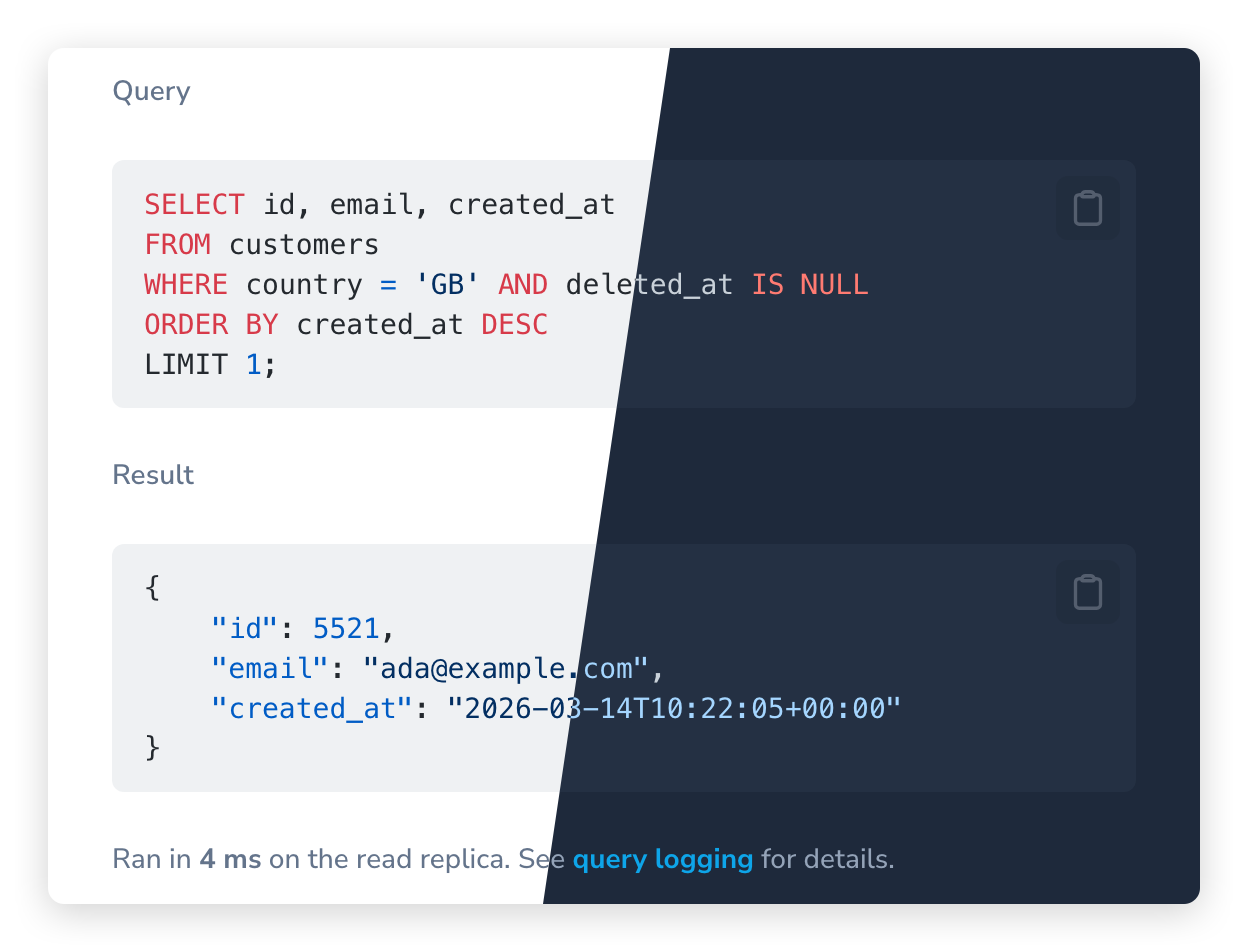
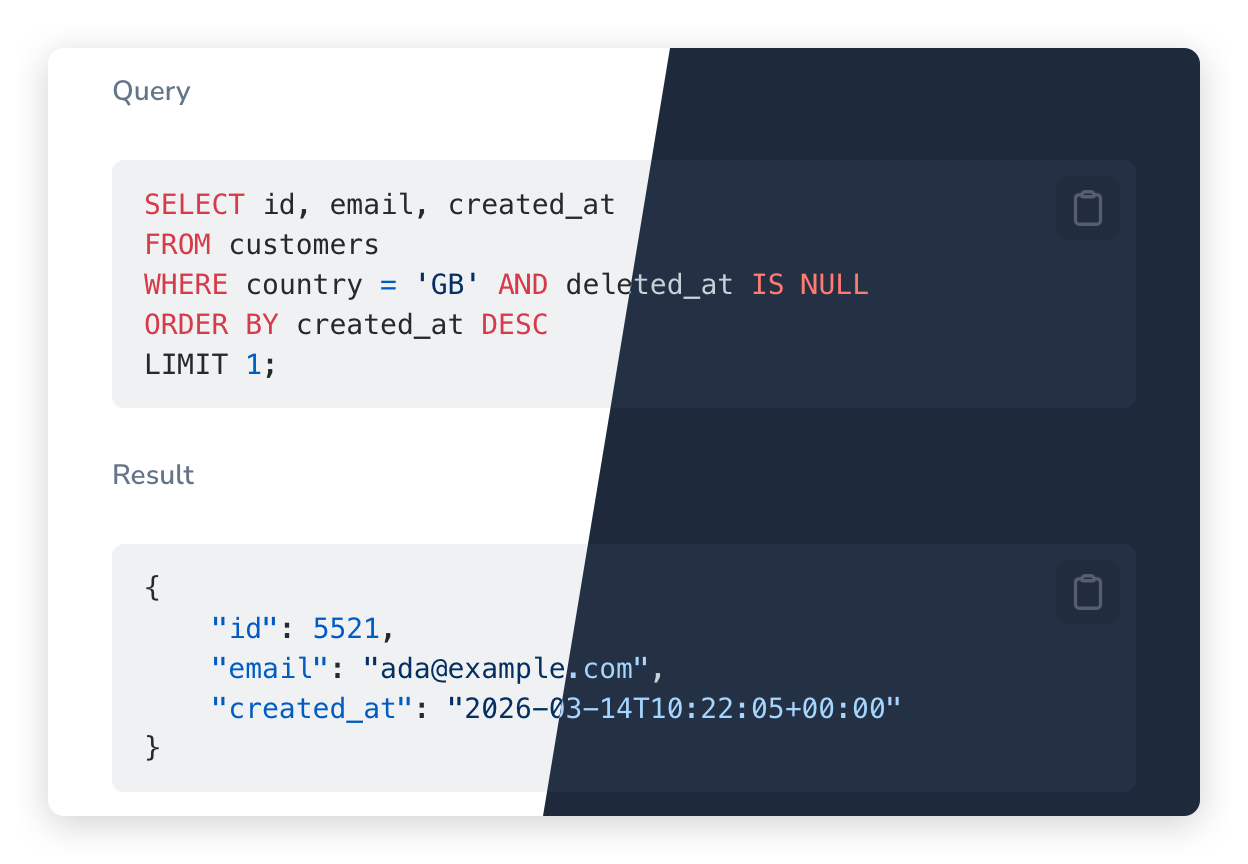
Group README blocks by category with an index and code-then-screenshot order
References #96

diff --git a/workbench/app/Nova/Actions/ScreenshotAction.php b/workbench/app/Nova/Actions/ScreenshotAction.php
@@ -116,7 +116,6 @@ class ScreenshotAction extends Action
                 'email' => 'ada@example.com',
                 'created_at' => '2026-03-14T10:22:05+00:00',
             ]),
-            Block::markdown('Ran in **4 ms** on the read replica. See [query logging](https://example.com/docs/queries) for details.'),
         ])->title('Query preview')->size('xl');
     }
 

diff --git a/README.md b/README.md
@@ -97,9 +97,38 @@ return ModalResponse::stack([
 
 All blocks are built through the `Markwalet\NovaModalResponse\Block` factory.
 
-<p align="center"><img src="art/blocks-text.png" alt="Heading, text, divider and list blocks" width="600"></p>
+| Category                                      | Blocks                                                                    |
+| --------------------------------------------- | ------------------------------------------------------------------------- |
+| [Text content](#text-content)                 | [text](#text) · [heading](#heading) · [list](#list) · [divider](#divider) |
+| [Code and data](#code-and-data)               | [code](#code) · [json](#json)                                             |
+| [Inline elements](#inline-elements)           | [badge](#badge) · [icon](#icon) · [link](#link) · [inline](#inline)       |
+| [Collapsible and tabs](#collapsible-and-tabs) | [collapsible](#collapsible) · [tabs](#tabs)                               |
+| [Raw HTML](#raw-html)                         | [html](#html) · [markdown](#markdown) · [view](#view)                     |
 
-#### Text
+#### Text content
+
+```php
+ModalResponse::stack([
+    Block::heading('Import finished')->large(),
+    Block::text('Processed 1,204 rows from customers.csv. Three rows were skipped and need a manual fix.'),
+    Block::divider(),
+    Block::heading('Skipped rows')->small(),
+    Block::list([
+        'Row 18: missing email address',
+        'Row 211: duplicate customer number',
+        'Row 940: unknown country code "UK"',
+    ]),
+    Block::heading('Next steps')->small(),
+    Block::list([
+        'Correct the rows in the source file',
+        'Re-run the import with "Only failed rows"',
+    ])->ordered(),
+]);
+```
+
+<p align="center"><img src="art/blocks-text.png" alt="A large heading, a paragraph, a divider, small headings, a bulleted list and a numbered list" width="600"></p>
+
+##### Text
 
 A single paragraph of escaped text. Whitespace and newlines are not preserved; use `code` or `list` for multi-line output.
 
@@ -107,7 +136,7 @@ A single paragraph of escaped text. Whitespace and newlines are not preserved; u
 Block::text('The export finished successfully.');
 ```
 
-#### Heading
+##### Heading
 
 A heading inside the body (separate from the modal title). Sizes: `small()`, `medium()` (default), `large()`.
 
@@ -115,7 +144,7 @@ A heading inside the body (separate from the modal title). Sizes: `small()`, `me
 Block::heading('Summary')->large();
 ```
 
-#### List
+##### List
 
 A list of escaped strings. Unordered by default; call `ordered()` for a numbered list.
 
@@ -124,7 +153,7 @@ Block::list(['apples', 'oranges', 'pears']);
 Block::list(['Back up', 'Migrate', 'Verify'])->ordered();
 ```
 
-#### Divider
+##### Divider
 
 A horizontal rule between blocks.
 
@@ -132,9 +161,20 @@ A horizontal rule between blocks.
 Block::divider();
 ```
 
-<p align="center"><img src="art/blocks-code.png" alt="A SQL code block, a JSON block and a markdown block" width="600"></p>
+#### Code and data
 
-#### Code
+```php
+ModalResponse::stack([
+    Block::heading('Query')->small(),
+    Block::code($sql)->language('sql'),
+    Block::heading('Result')->small(),
+    Block::json($customer),
+]);
+```
+
+<p align="center"><img src="art/blocks-code.png" alt="A highlighted SQL query and its JSON result, each with a copy button" width="600"></p>
+
+##### Code
 
 A code snippet with a copy button. highlight.js auto-detects the language unless you set one with `language()`. Call `withoutHighlighting()` to render plain text.
 
@@ -143,7 +183,7 @@ Block::code('SELECT * FROM users;')->language('sql');
 Block::code($log)->withoutHighlighting();
 ```
 
-#### JSON
+##### JSON
 
 Takes an array, pretty-prints it as JSON and highlights it. Has a copy button. Supports `withoutHighlighting()`.
 
@@ -151,34 +191,34 @@ Takes an array, pretty-prints it as JSON and highlights it. Has a copy button. S
 Block::json($user->toArray());
 ```
 
-#### HTML
-
-Renders an HTML string as-is.
+#### Inline elements
 
 ```php
-Block::html('<p>Read the <a href="/docs">docs</a>.</p>');
+ModalResponse::stack([
+    Block::inline([Block::icon('check-circle')->success()->large(), 'Paid with Visa', Block::badge('•••• 4242')]),
+    Block::inline(['Fulfilment', Block::badge('Shipped')->success()->icon('truck')])->spread(),
+    Block::inline(['Priority', Block::badge('High')->warning()])->spread(),
+    Block::inline(['Fraud check', Block::badge('Review')->danger()->icon('exclamation-triangle')])->spread(),
+    Block::divider(),
+    Block::inline([
+        Block::badge('B2B'),
+        Block::badge('Returning')->info(),
+        Block::badge('Verified')->success(),
+        Block::badge('Backorder')->warning(),
+        Block::badge('Chargeback risk')->danger(),
+    ]),
+    Block::divider(),
+    Block::inline([
+        Block::link('Open in Stripe', $stripeUrl)->button()->newTab()->icon('arrow-top-right-on-square', trailing: true),
+        Block::link('Download invoice', $invoiceUrl)->icon('arrow-down-tray'),
+        Block::link('Customer profile', $profileUrl),
+    ]),
+]);
 ```
 
-#### Markdown
+<p align="center"><img src="art/blocks-inline.png" alt="Inline rows with an icon, key/value rows with badges, badges in every variant, and links" width="600"></p>
 
-Compiles GitHub-flavored Markdown to HTML on the server (via Laravel's `Str::markdown()`). Call `file()` to treat the argument as a path to a Markdown file; an unreadable path throws an `InvalidArgumentException`.
-
-```php
-Block::markdown('**Bold** and a [link](https://nova.laravel.com).');
-Block::markdown(resource_path('docs/release-notes.md'))->file();
-```
-
-#### View
-
-Renders a Blade view on the server and shows the result as HTML.
-
-```php
-Block::view('reports.summary', ['report' => $report]);
-```
-
-<p align="center"><img src="art/blocks-inline.png" alt="Inline rows of icons, badges in every variant, and links" width="600"></p>
-
-#### Badge
+##### Badge
 
 A small coloured label. Variants: `default()` (default), `info()`, `success()`, `warning()`, `danger()`. Sizes: `small()`, `medium()` (default), `large()`. Add a [Heroicon](https://heroicons.com) inside the badge with `icon($name)`; pass `trailing: true` to put it after the label.
 
@@ -187,7 +227,7 @@ Block::badge('Published')->success();
 Block::badge('Deploying')->info()->icon('arrow-path', trailing: true);
 ```
 
-#### Icon
+##### Icon
 
 A single [Heroicon](https://heroicons.com) by name. Supports the same variants and sizes as the badge. Unknown names render nothing.
 
@@ -195,7 +235,7 @@ A single [Heroicon](https://heroicons.com) by name. Supports the same variants a
 Block::icon('exclamation-triangle')->warning()->large();
 ```
 
-#### Link
+##### Link
 
 A link to a URL. Call `button()` to render it as a button, `newTab()` to open it in a new tab, and `icon($name, trailing: false)` to add an icon. Sizes: `small()`, `medium()` (default), `large()`. A button-style link still just navigates to its URL; it does not run a Nova action.
 
@@ -204,7 +244,7 @@ Block::link('Open invoice', route('invoices.show', $invoice));
 Block::link('Download', $url)->button()->newTab()->icon('arrow-down-tray');
 ```
 
-#### Inline
+##### Inline
 
 Puts a few small blocks on one horizontal row. Only `text`, `badge`, `icon` and `link` blocks (and bare strings) are allowed inside; anything else throws an `InvalidArgumentException`. Alignment: start (default), `spread()`, `center()` or `end()`.
 
@@ -215,9 +255,25 @@ Block::inline([
 ])->spread();
 ```
 
-<p align="center"><img src="art/blocks-containers.png" alt="Tabs containing key/value rows and collapsible sections" width="600"></p>
+#### Collapsible and tabs
 
-#### Collapsible
+```php
+ModalResponse::tabs([
+    'Overview' => [
+        Block::inline(['Customer', 'Ada Lovelace'])->spread(),
+        Block::inline(['Lifetime value', Block::badge('€ 4,210')->success()])->spread(),
+        Block::inline(['Open tickets', Block::badge('2')->warning()])->spread(),
+        Block::collapsible('Billing address', Block::json($address))->expanded(),
+        Block::collapsible('Internal notes', 'Prefers invoices by post.'),
+    ],
+    'Orders' => [Block::list($orders)],
+    'Activity' => ['Last login 3 days ago.'],
+]);
+```
+
+<p align="center"><img src="art/blocks-containers.png" alt="Tabs with key/value rows, an expanded collapsible with JSON and a collapsed one" width="600"></p>
+
+##### Collapsible
 
 A header the user clicks to show or hide its content. Takes a single block or an array of blocks, which can be any blocks. Starts collapsed; call `expanded()` to start open. Both `expanded()` and `collapsed()` accept a boolean or a closure.
 
@@ -230,7 +286,7 @@ Block::collapsible('Details', [
 ])->expanded($user->isAdmin());
 ```
 
-#### Tabs
+##### Tabs
 
 Shows one tab at a time, with the labels in a header bar. Pass `label => blocks` pairs, or `Block::tab()` instances when you need options. The first tab opens by default; mark another one with `active()`.
 
@@ -246,6 +302,35 @@ ModalResponse::tabs([
 ```
 
 `ModalResponse::tabs()` is shorthand for a stack with a single `Block::tabs([...])`.
+
+#### Raw HTML
+
+These render HTML as-is. See [Untrusted content](#untrusted-content) below before passing them anything a user controls.
+
+##### HTML
+
+Renders an HTML string as-is.
+
+```php
+Block::html('<p>Read the <a href="/docs">docs</a>.</p>');
+```
+
+##### Markdown
+
+Compiles GitHub-flavored Markdown to HTML on the server (via Laravel's `Str::markdown()`). Call `file()` to treat the argument as a path to a Markdown file; an unreadable path throws an `InvalidArgumentException`.
+
+```php
+Block::markdown('**Bold** and a [link](https://nova.laravel.com).');
+Block::markdown(resource_path('docs/release-notes.md'))->file();
+```
+
+##### View
+
+Renders a Blade view on the server and shows the result as HTML.
+
+```php
+Block::view('reports.summary', ['report' => $report]);
+```
 
 ### Untrusted content
 
